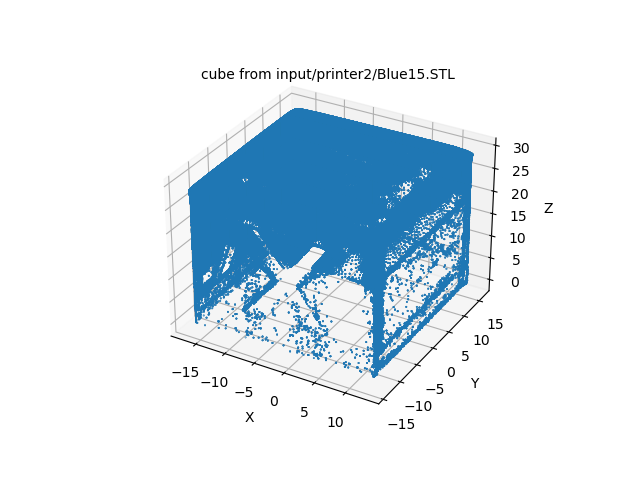
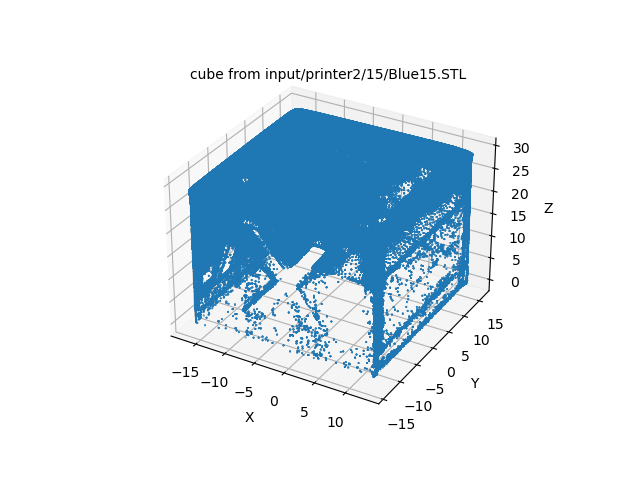
run sampling in parallel

Changed region(s): [[0.3125, 0.125, 0.7188, 0.1875]]

diff --git a/main.py b/main.py
@@ -3,6 +3,7 @@ from pathlib import Path
 from typing import List
 
 from dotenv import load_dotenv
+from joblib import Parallel, delayed
 
 from cube_loader import cube_name_from_stl_path, load_points_from_stl
 from cube_sampler import sample_from_raw_points
@@ -14,40 +15,42 @@ def printer_dirs(sample_root: Path) -> List[Path]:
     return [Path(sample_root, dir_name) for dir_name in os.getenv('PRINTER_FOLDERS').split(',')]
 
 
-if __name__ == '__main__':
+def process_stl(stl_path: Path, printer_dir: Path) -> str:
+    if 'test' in stl_path.stem:
+        print(f'Skip test file {stl_path.absolute()}')
+        return 'ignored'
 
+    print(f'Processing {stl_path.absolute()}')
+
+    raw_data = load_points_from_stl(stl_path)
+    cube_name = cube_name_from_stl_path(stl_path)
+
+    cube, sample_points = sample_from_raw_points(raw_data)
+
+    output_dir = Path(output_root, printer_dir.name)
+    output_dir.mkdir(parents=True, exist_ok=True)
+
+    cube_img_path = str(Path(output_dir, f'cube-{cube_name}.png'))
+    surface_img_path = str(Path(output_dir, f'surface-{cube_name}.png'))
+    heatmap_img_path = str(Path(output_dir, f'heatmap-{cube_name}.png'))
+
+    export_sample_in_2d(sample_points, cube_name, surface_img_path)
+
+    plot_3d(cube, title=f'cube from {stl_path}', path=cube_img_path, s=0.1)
+
+    heatmap = sample_to_heatmap(sample_points)
+    plot_heatmap(heatmap, save_path=heatmap_img_path)
+
+    return 'done'
+
+
+if __name__ == '__main__':
     load_dotenv('.env.local')
 
     sample_root = Path(os.getenv('SAMPLE_ROOT'))
     output_root = Path(os.getenv('OUTPUT_ROOT'))
 
-    for printer_dir in printer_dirs(sample_root):
+    stl_paths = [(stl_path, printer_dir) for printer_dir in printer_dirs(sample_root)
+                 for stl_path in list(printer_dir.glob('**/*.STL'))]
 
-        stl_paths = list(printer_dir.glob('**/*.STL'))
-
-        for stl_path in stl_paths:
-
-            if 'test' in stl_path.stem:
-                print(f'Skip test file {stl_path.absolute()}')
-                continue
-
-            print(f'Processing {stl_path.absolute()}')
-
-            raw_data = load_points_from_stl(stl_path)
-            cube_name = cube_name_from_stl_path(stl_path)
-
-            cube, sample_points = sample_from_raw_points(raw_data)
-
-            output_dir = Path(output_root, printer_dir.name)
-            output_dir.mkdir(parents=True, exist_ok=True)
-
-            cube_img_path = str(Path(output_dir, f'cube-{cube_name}.png'))
-            surface_img_path = str(Path(output_dir, f'surface-{cube_name}.png'))
-            heatmap_img_path = str(Path(output_dir, f'heatmap-{cube_name}.png'))
-
-            export_sample_in_2d(sample_points, cube_name, surface_img_path)
-
-            plot_3d(cube, title=f'cube from {stl_path}', path=cube_img_path, s=0.1)
-
-            heatmap = sample_to_heatmap(sample_points)
-            plot_heatmap(heatmap, save_path=heatmap_img_path)
+    Parallel(n_jobs=os.cpu_count())(delayed(process_stl)(stl_path, printer_dir) for stl_path, printer_dir in stl_paths)

diff --git a/README.md b/README.md
@@ -3,3 +3,17 @@
 Documentation will be added after all cubes are sampled correctly.
 
 Please read the [Jupyter notebook](./3d-solution.ipynb) for now.
+
+## Data folder layout
+
+```text
+input
+├── printer1
+│   └── 09
+│       └── Blue09.STL
+└── printer2
+    ├── 15
+    │   └── Blue15.STL
+    └── 22
+        └── Blue22.STL
+```
